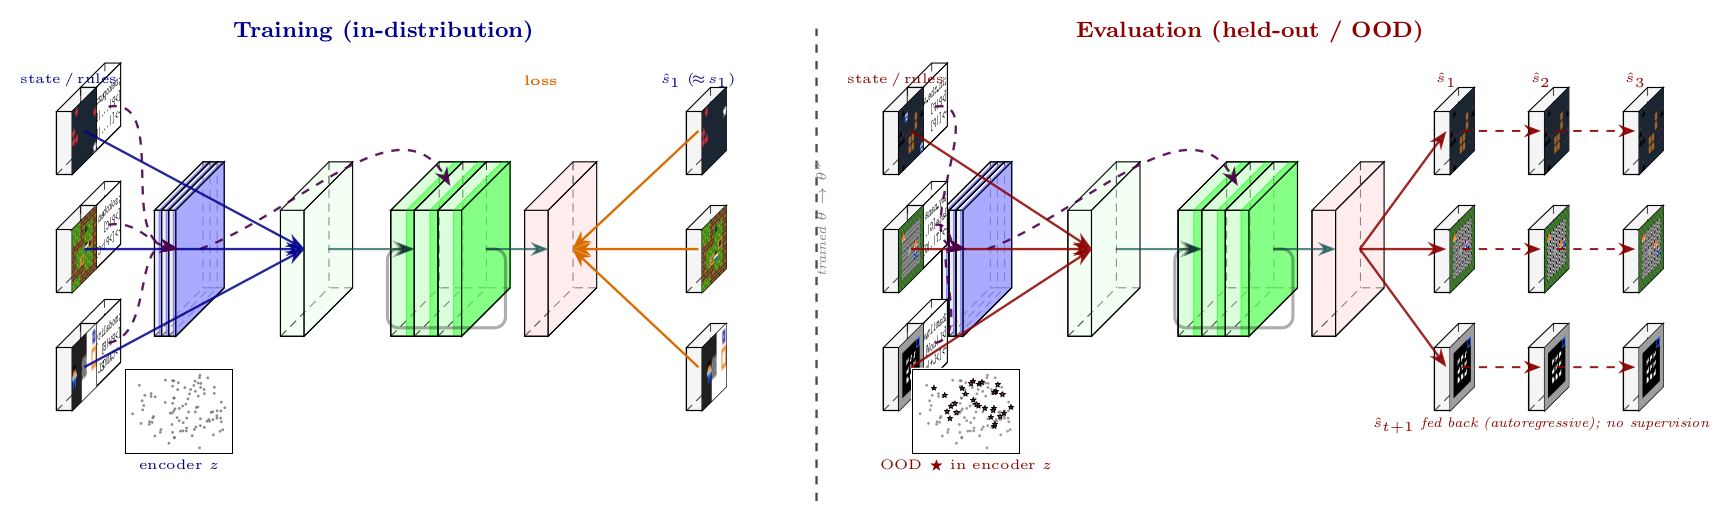
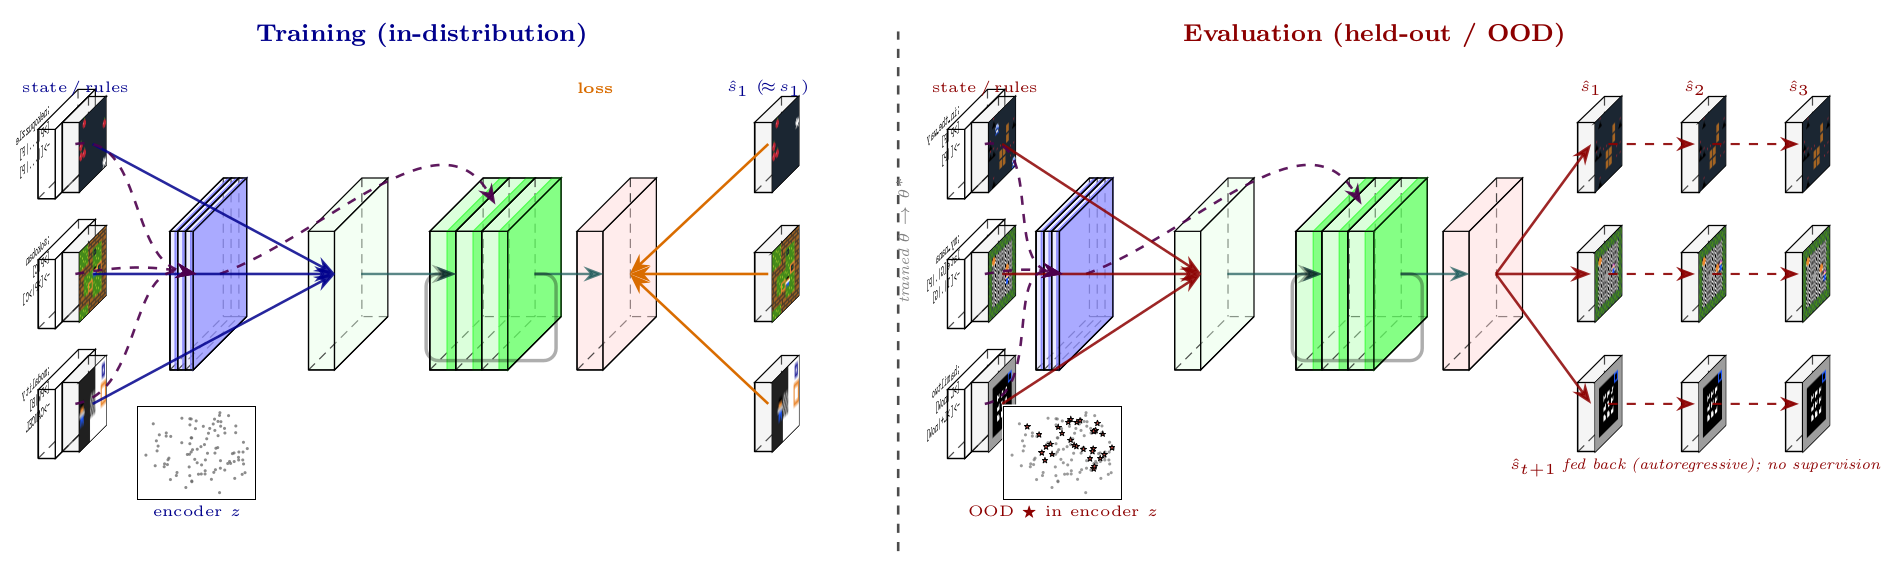
Paper: code blocks now sit LEFT of state blocks (left-to-right behind)
Previous \StateOnCode put the code box DIRECTLY behind the state box
in the z (depth) direction. The user's requested layout is left-to-
right behind: code box glued to the WEST face of the state box, code
text projected on the shared east face (with a slight height bump so
the code box pokes above the state). Code-box → encoder fan-in arrows
now originate from the code box's east anchor.

diff --git a/nca_wm/paper/figures/id_ood_teaser/teaser.tex b/nca_wm/paper/figures/id_ood_teaser/teaser.tex
@@ -51,28 +51,31 @@
       {\includegraphics[width=0.8cm,height=0.8cm]{#4}};%
 }
 
-% --- "Card pair": state Box at front, code Box flush with its back.
-%     Both share x,y but the code box is offset in -z so its near face
-%     meets the state box's far face. Image lives on the state box's
-%     east face; code text lives on the code box's near face (z+),
-%     which is the back-of-card surface and is exposed by the iso
-%     projection's z shift.
+% --- "Card pair": code Box on the LEFT of the state Box in the
+%     reading direction (not depth-wise behind). Code text is
+%     projected on the code box's east face — the same plane as the
+%     state box's west face. Code box is offset slightly back in z so
+%     its east face peeks out behind the state box in iso projection.
 %
-%     Anchors: <name>g (game/state box) and <name>c (code box).
+%     Anchors: <name>g (state box) and <name>c (code box).
 %     #1 = name base, #2 = x, #3 = y,
 %     #4 = state image path, #5 = code text body
 \newcommand{\StateOnCode}[5]{%
-  % code box behind, flush at z = -0.4 (game far face); centered at z=-0.8
-  \pic[shift={(#2, #3, -0.8)}] at (0,0,0)
+  % Code box: glued to the LEFT of the state box (state-west = code-east),
+  % same depth, slightly larger height so the top edge of the code box
+  % peeks above the state box and the east face has visible area there.
+  \pic[shift={({#2 - 0.2}, #3, 0)}] at (0,0,0)
       {Box={name=#1c, caption=, xlabel={{,}}, zlabel={},
             fill=CodeFill, opacity=1.0,
-            height=4, width=1.0, depth=4}};%
-  % code text on the back card's east face — projects up-and-left of
-  % the game card's east face under the iso z shift, so it peeks out.
-  \node[canvas is zy plane at x={#2 + 0.2}, font=\tiny\ttfamily,
-        align=left, inner sep=0.4pt, text width=0.8cm]
-        at (0, #3, -0.8) {#5};%
-  % state box in front
+            height=5, width=1.0, depth=4}};%
+  % Code text on the east face of the code box, offset forward in z so
+  % it lands in the visible front portion of that face (the front-strip
+  % that the state box doesn't occlude in iso projection).
+  \node[canvas is zy plane at x={#2}, font=\tiny\ttfamily,
+        align=left, inner sep=0.5pt, text width=1.0cm,
+        anchor=center]
+        at (-0.6, #3) {#5};%
+  % state box on the right
   \pic[shift={(#2, #3, 0)}] at (0,0,0)
       {Box={name=#1g, caption=, xlabel={{,}}, zlabel={},
             fill=PSFrameFill, height=4, width=1.0, depth=4}};%
